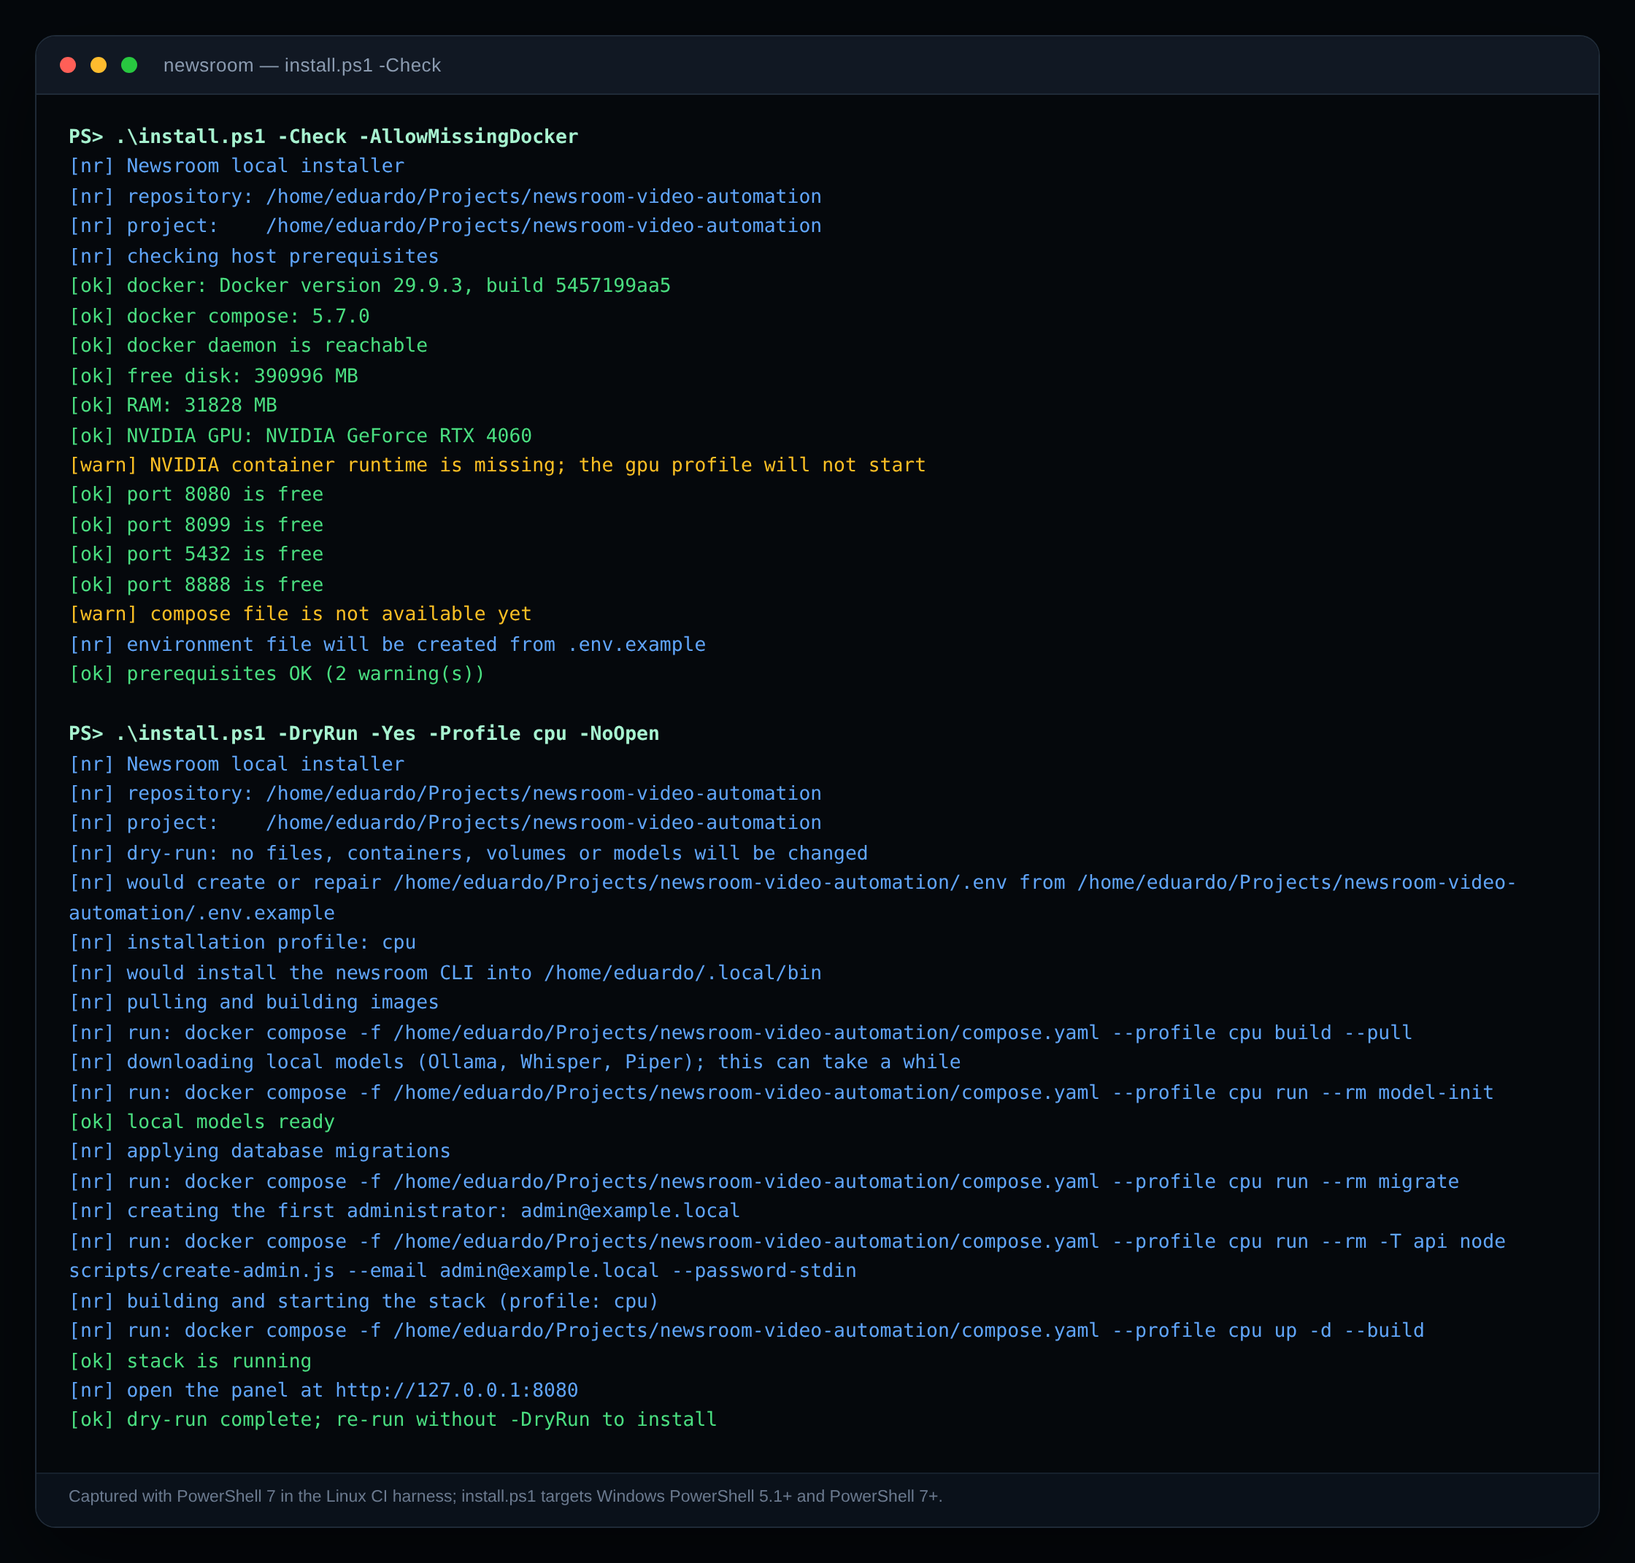
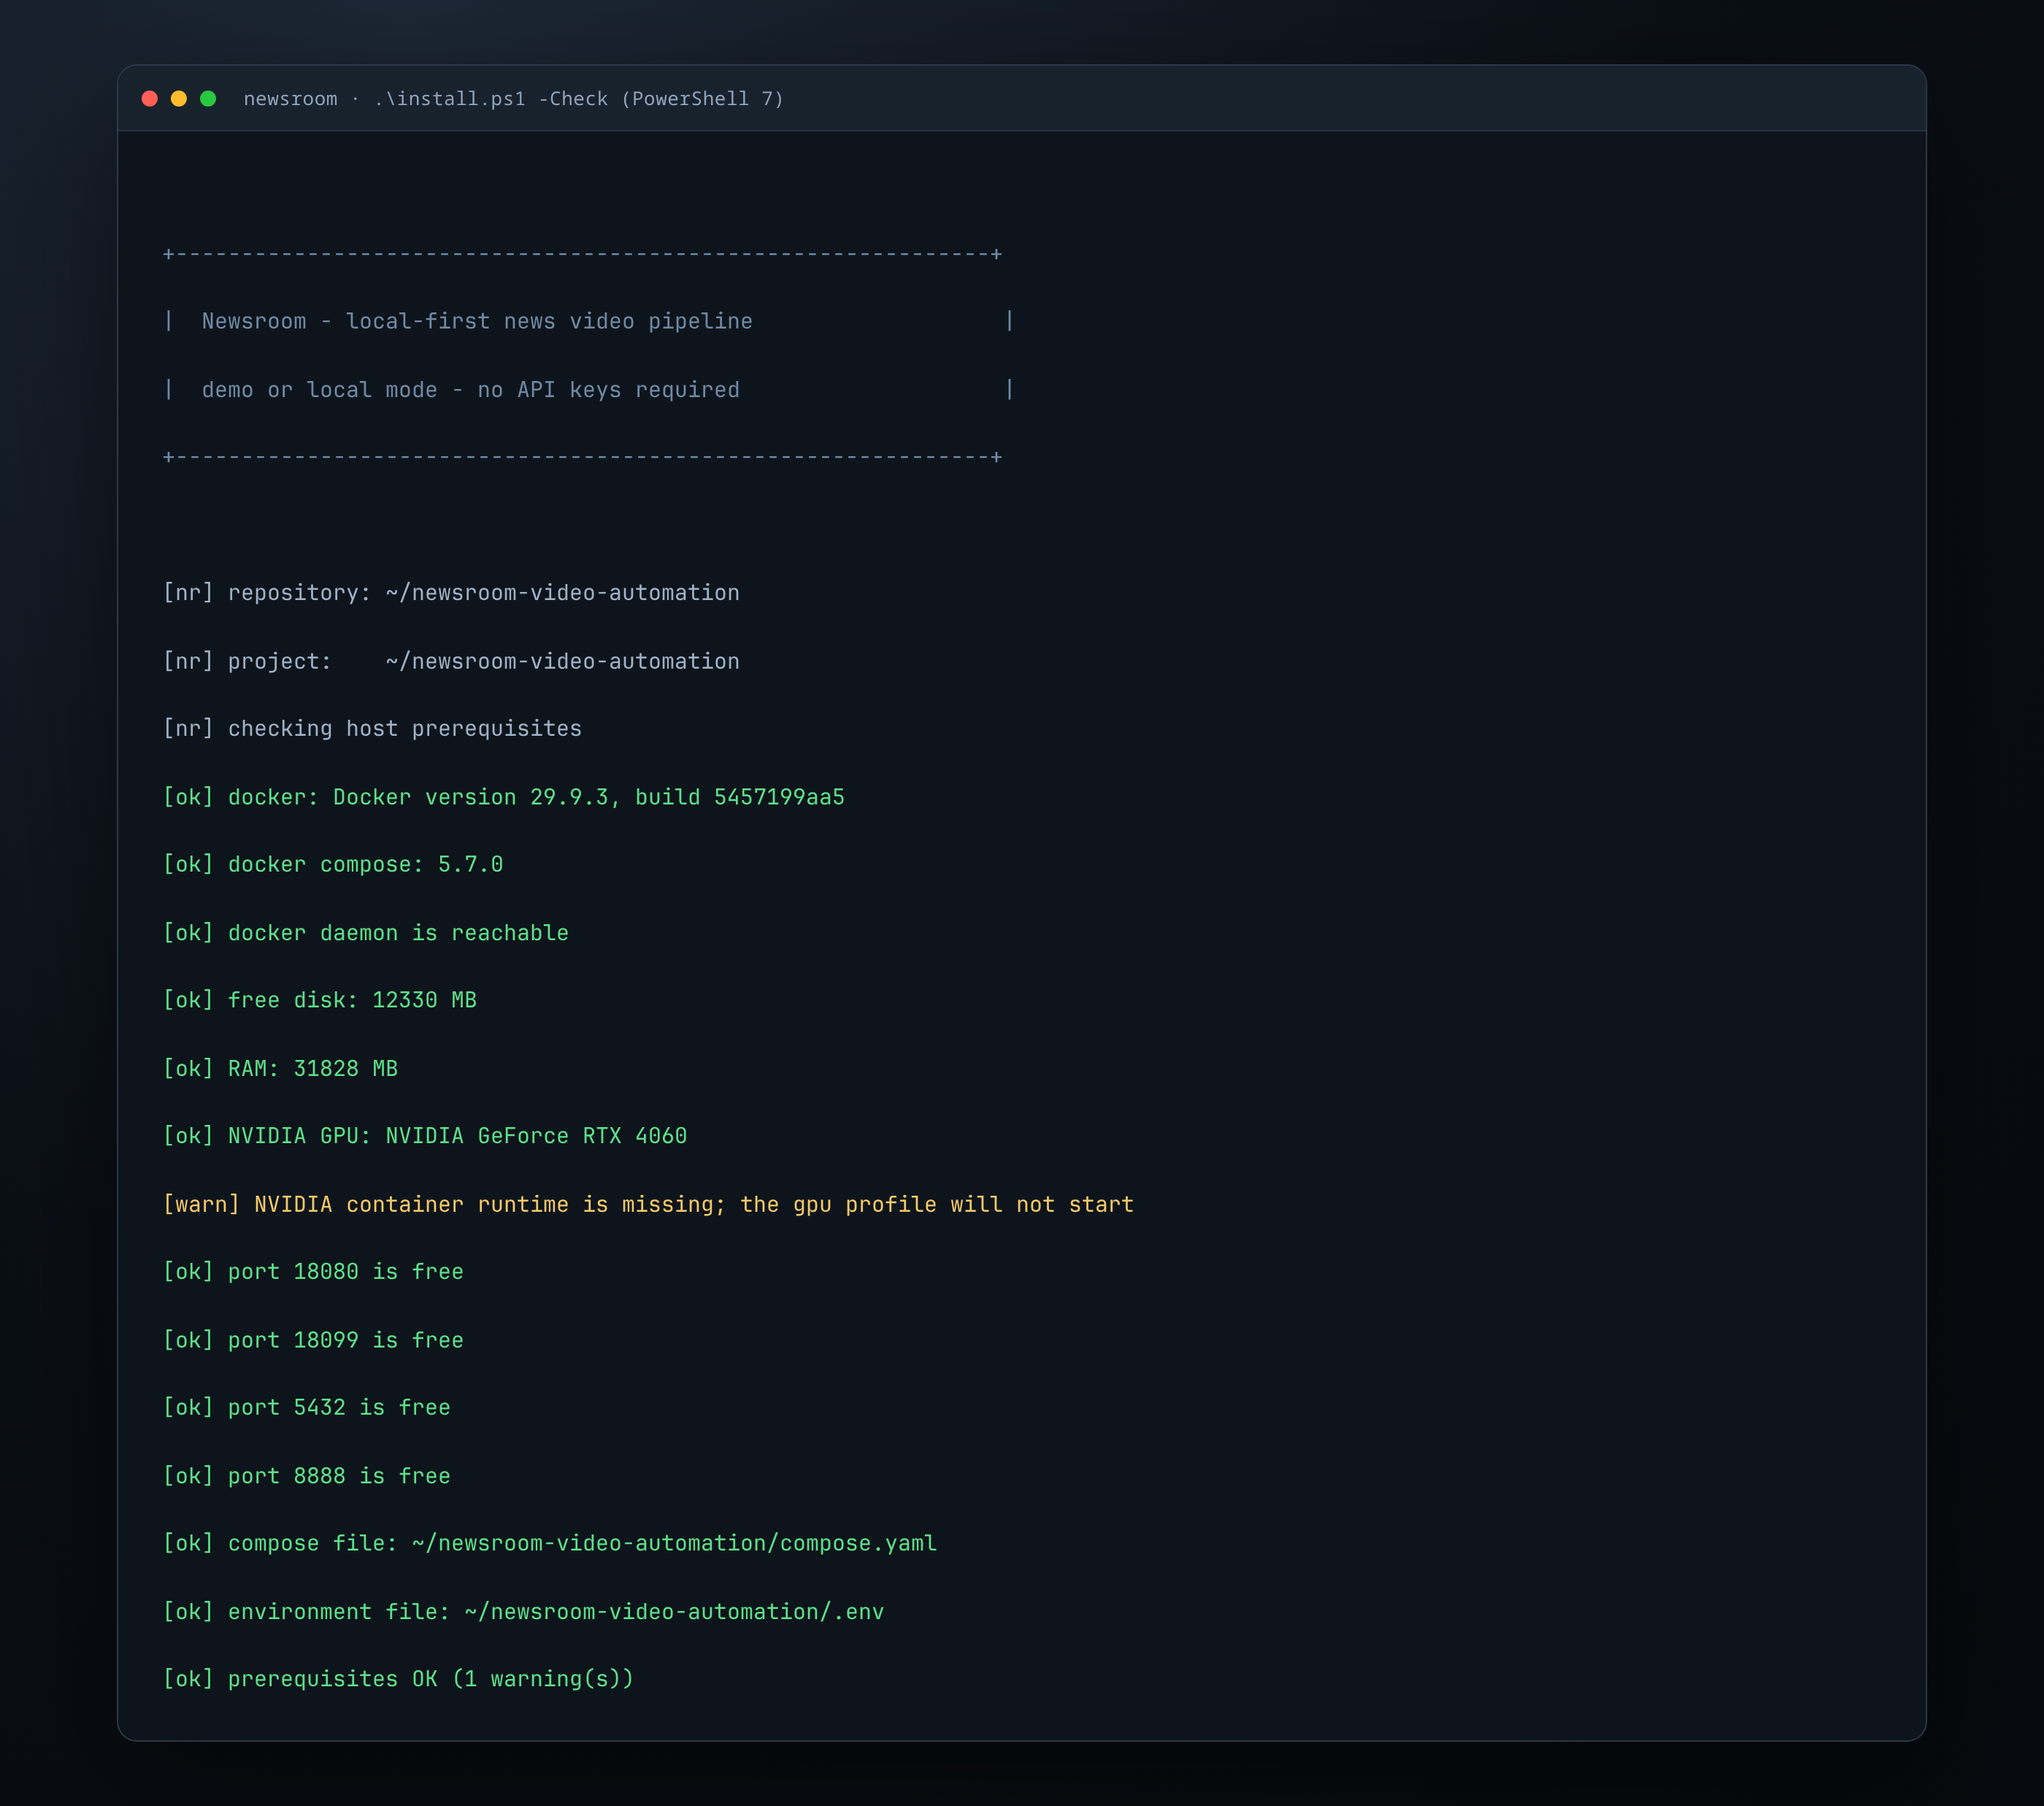
docs(install): replace the installer screenshots with neutral renders

diff --git a/docs/INSTALL.md b/docs/INSTALL.md
@@ -9,9 +9,9 @@ The installer supports Windows 10/11 (PowerShell 5.1+ and PowerShell 7+) and
 Linux (tested on Ubuntu 24.04 and Arch). macOS works with the bash installer on
 a best-effort basis.
 
-![Linux installer check](images/installer-linux.png)
+![Linux guided demo install](images/installer-linux.png)
 
-![Windows installer check](images/installer-windows.png)
+![Windows installer prerequisite check](images/installer-windows.png)
 
 ## Requirements
 
